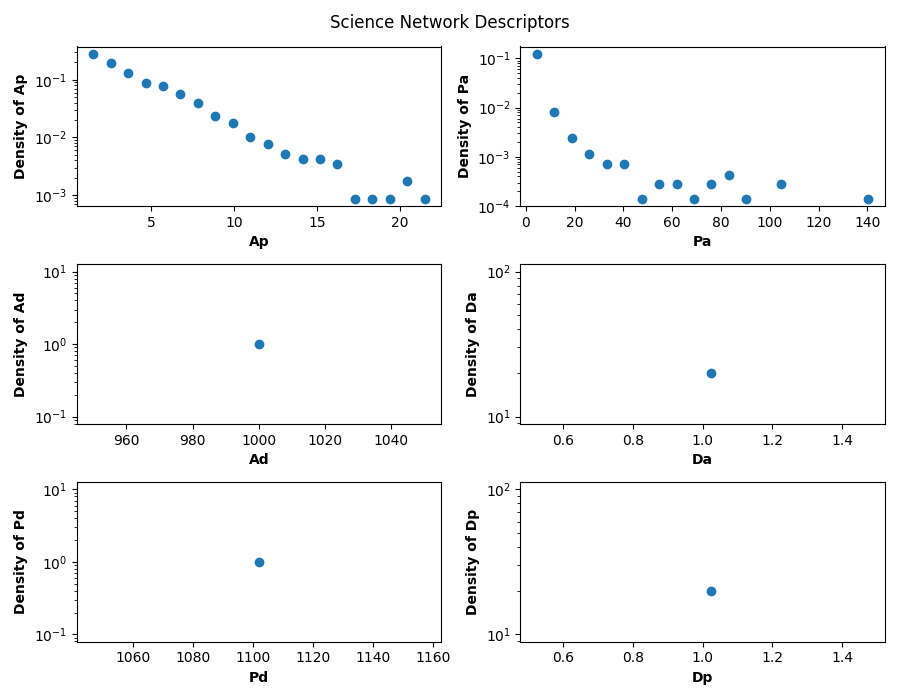
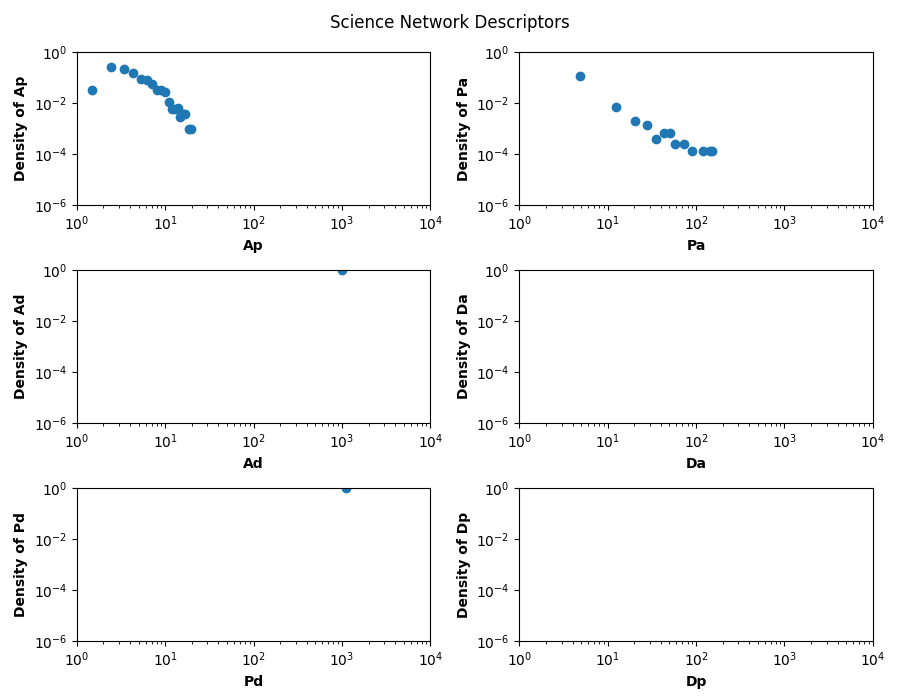
Added plotting outputs

diff --git a/modelReplication.py b/modelReplication.py
@@ -6,7 +6,7 @@ This script attempts to follow replicate the results from the following paper: h
 '''
 
 # declare amount of runs to average
-RUNS = 10
+RUNS = 1
 
 
 # Declare the Nanobank simulation
@@ -23,7 +23,8 @@ for i in range(RUNS):
     model = Evolution(Pn=0.9, Pw=0.28, Pd=0)
     model.evolve(newAuthors=1000)
     descr = model.getQuantDistr(initialDescr=descr)
-model.plotDescriptorsDistr(saveToFile='outputs/nanobankPlots.png', logBase=10, data=list(descr.items()))
+    print(f'Done with run {i+1} with nanobank')
+model.plotDescriptorsDistr(saveToFile='outputs/nanobankPlots.png', ylogBase=10, xlogBase=10, data=list(descr.items()))
 
 # Declare the Scholarometer simulation
 # initialize quant descriptors
@@ -39,7 +40,8 @@ for i in range(RUNS):
     model = Evolution(Pn=0.04, Pw=0.35, Pd=0.01)
     model.evolve(newAuthors=1000)
     descr = model.getQuantDistr(initialDescr=descr)
-model.plotDescriptorsDistr(saveToFile='outputs/scholarometerPlots.png', logBase=10, data=list(descr.items()))
+    print(f'Done with run {i+1} with scholarometer')
+model.plotDescriptorsDistr(saveToFile='outputs/scholarometerPlots.png', ylogBase=10, xlogBase=10, data=list(descr.items()))
 
 # Declare the Bibsonomy simulation
 # initialize quant descriptors
@@ -55,4 +57,5 @@ for i in range(RUNS):
     model = Evolution(Pn=0.80, Pw=0.71, Pd=0.50)
     model.evolve(newPapers=1000)
     descr = model.getQuantDistr(initialDescr=descr)
-model.plotDescriptorsDistr(saveToFile='outputs/bibsonomyPlots.png', logBase=10, data=list(descr.items()))
+    print(f'Done with run {i+1} with bibsonomy')
+model.plotDescriptorsDistr(saveToFile='outputs/bibsonomyPlots.png', ylogBase=10, xlogBase=10, data=list(descr.items()))

diff --git a/modules/Evolution.py b/modules/Evolution.py
@@ -269,7 +269,7 @@ class Evolution:
         # print(f'Initial Paper: {self.initialPaper}')
 
     '''Plotting methods'''
-    def plotDescriptorsDistr(self, saveToFile=None, logBase=None, data=None):
+    def plotDescriptorsDistr(self, saveToFile=None, ylogBase=None, xlogBase=None, data=None):
         '''
         Method will take the descriptors dictionary returned from getQuantDescriptors method and plot subplots
         Inputs:
@@ -296,8 +296,16 @@ class Evolution:
                 axis.scatter(binsMean, binVals)
                 axis.set_ylabel(f'Density of {label}', fontweight='bold')
                 axis.set_xlabel(f'{label}', fontweight='bold')
-                if logBase:
-                    axis.set_yscale('log', base=logBase) 
+
+                # scale axis
+                if ylogBase:
+                    axis.set_yscale('log', base=ylogBase) 
+                if xlogBase:
+                    axis.set_xscale('log', base=xlogBase)
+
+                # set limits
+                axis.set_ylim(10**-6, 1)
+                axis.set_xlim(1, 10**4)
 
         # figure styling
         fig.suptitle('Science Network Descriptors')

diff --git a/modules/ScholarNetwork.py b/modules/ScholarNetwork.py
@@ -220,6 +220,7 @@ class Graph(nx.Graph):
         except ZeroDivisionError:
             print(f'New Community: {newCom}')
             print(f'Com1: {com1} and Com2: {com2}')
+            self.plotPyvisGraph(filename='outputs/ErrorGraph.html', network=subGraphMerged)
             sys.exit('Error with merging')
         # merge, authors that are in both communities will just be a part of the first
         coms = dict.fromkeys(com1, 0) | dict.fromkeys(com2, 1)
